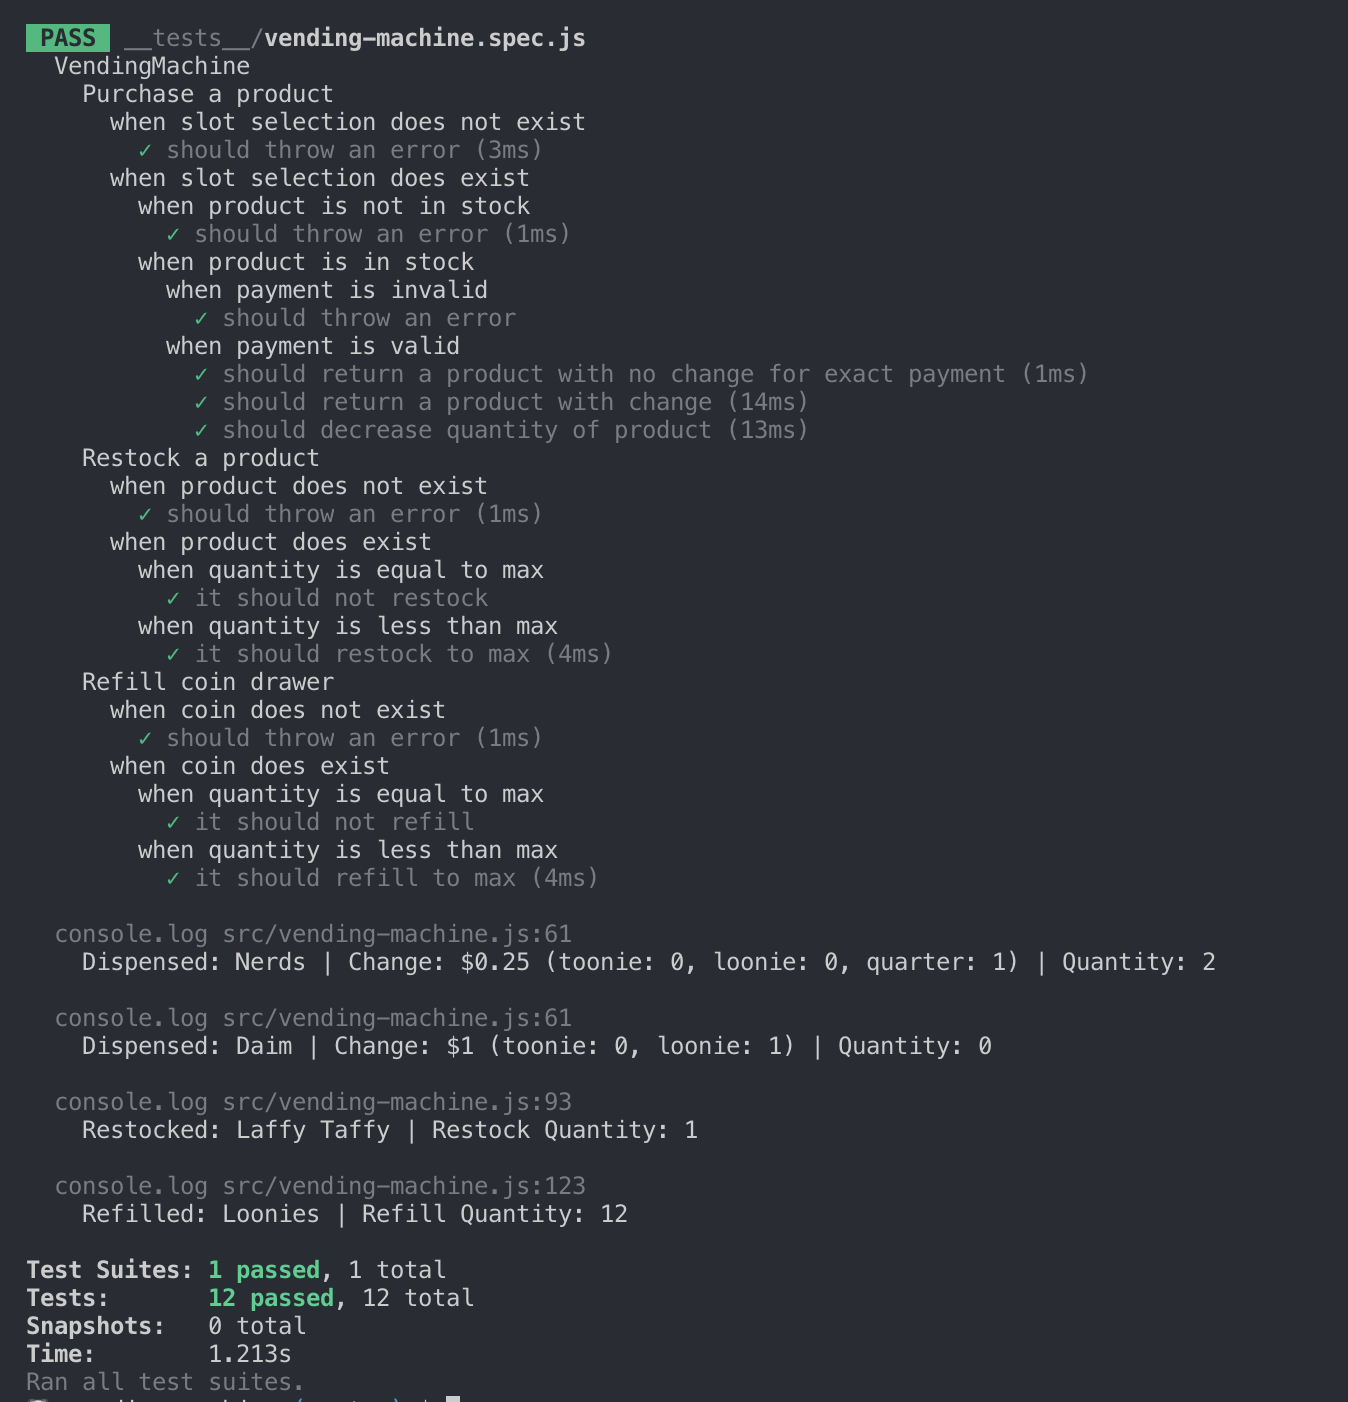
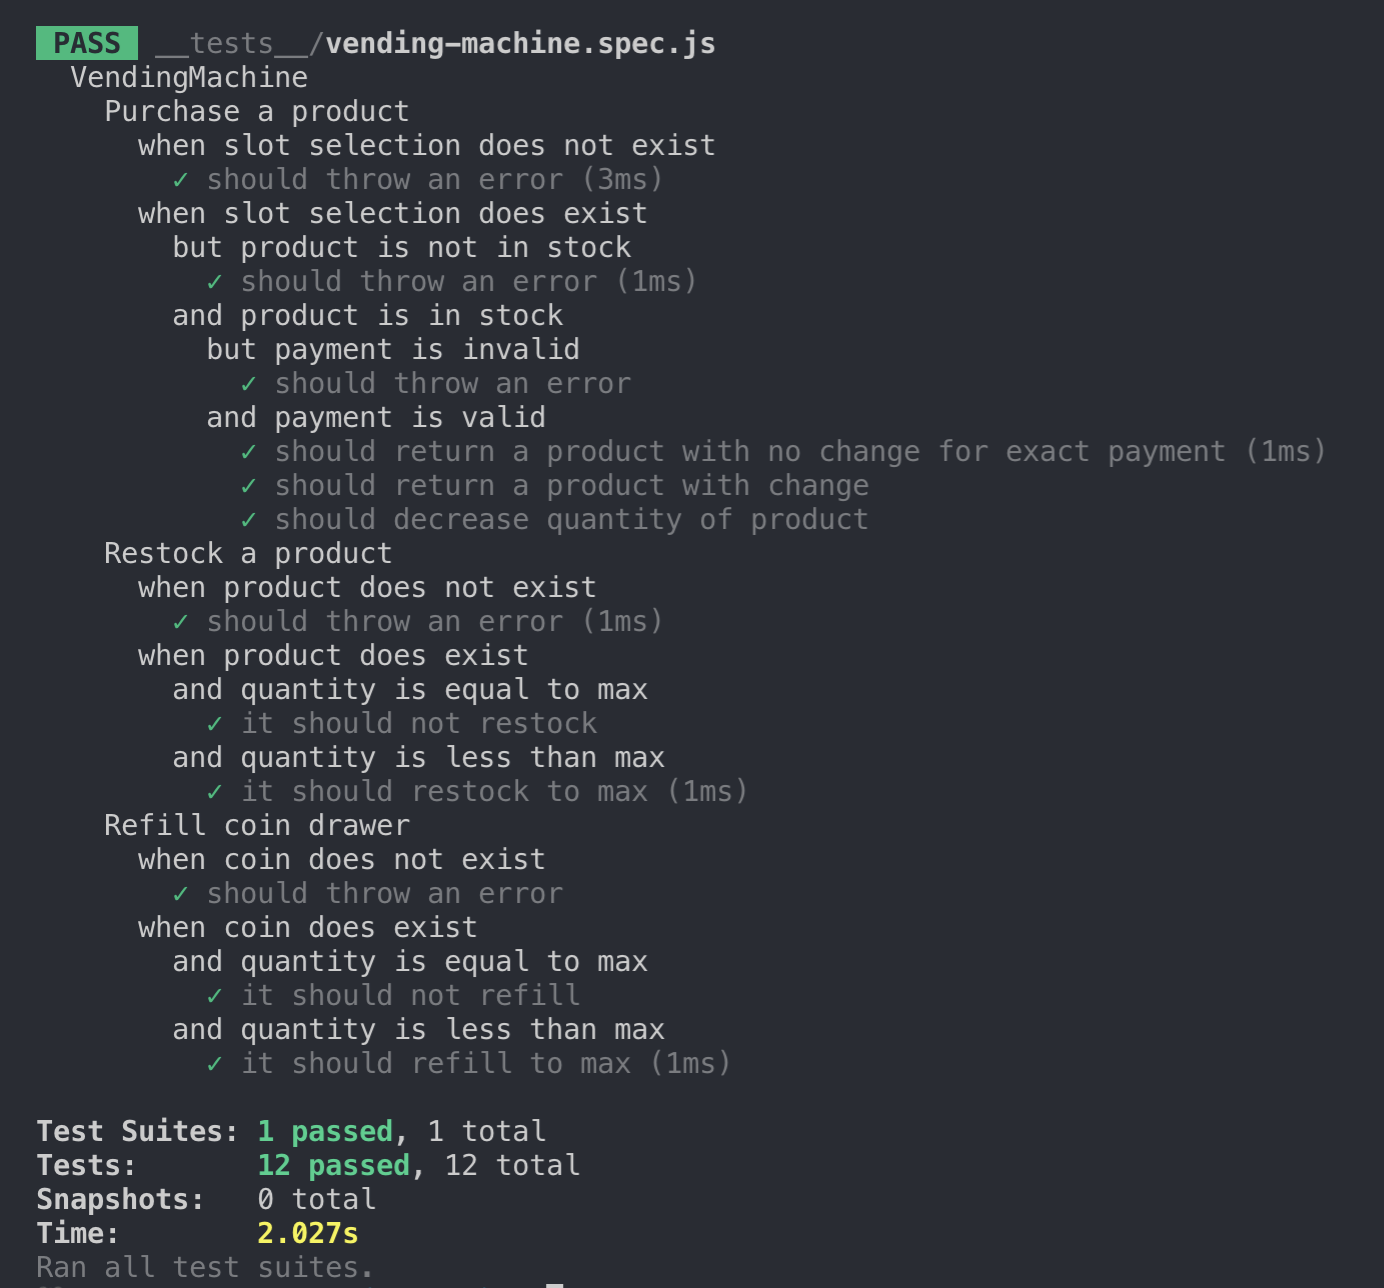
Removed console logs.

diff --git a/src/vending-machine.js b/src/vending-machine.js
@@ -58,10 +58,6 @@ class VendingMachine {
       let totalChange = payment - price;
       let paymentChange = this.calCoinChange((payment - price) * 100);
 
-      console.log(
-        `Dispensed: ${product} | Change: $${totalChange} (${paymentChange}) | Quantity: ${quantity}`
-      );
-
       return `Dispensed: ${product} | Change: $${totalChange} (${paymentChange}) | Quantity: ${quantity}`;
     }
   }
@@ -90,11 +86,6 @@ class VendingMachine {
       restockProduct = productMax;
     }
 
-    console.log(
-      `Restocked: ${productTitle} | Restock Quantity: ${restockProduct -
-        productQuantity}`
-    );
-
     return `Restocked: ${productTitle} | Restock Quantity: ${restockProduct -
       productQuantity}`;
   }
@@ -119,10 +110,6 @@ class VendingMachine {
     if (coinQuantity < coinMax) {
       refillCoin = coinMax;
     }
-
-    console.log(
-      `Refilled: ${coinTitle} | Refill Quantity: ${refillCoin - coinQuantity}`
-    );
 
     return `Refilled: ${coinTitle} | Refill Quantity: ${refillCoin -
       coinQuantity}`;

diff --git a/README.md b/README.md
@@ -63,6 +63,6 @@ Below are the subsequent learning outcomes:
 
 ## Author
 
-[Jennifer Lam](https://github.com/nejmal), App Developer student at [RED Academy](https://redacademy.com/vancouver/).
+[Jennifer Lam](https://github.com/nejmal), Full-Stack Developer student at [RED Academy](https://redacademy.com/vancouver/).
 
 Let's connect on [LinkedIn](https://www.linkedin.com/in/jenniferlam-/).
